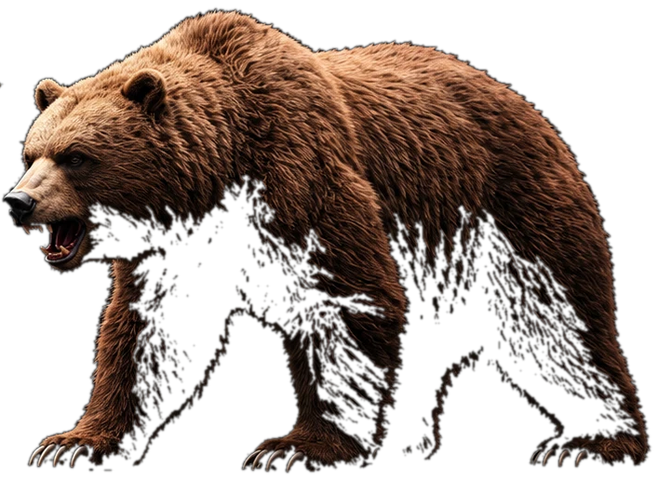
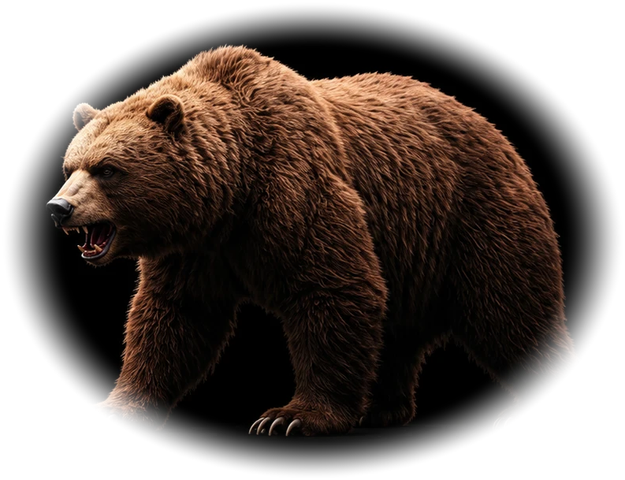
Market Snapshot: fix gray patch on bear mascot
The silhouette cutout was keying out some of the bears shadow-faded fur
along with the black background, since the art fades to near-black at
the edges with no clean color boundary between fur and backdrop. Switched
to a soft elliptical vignette plate instead of a silhouette cutout, which
keeps the whole animal opaque and only feathers the outer frame edge.

diff --git a/index.html b/index.html
@@ -108,7 +108,7 @@
 </script><section class="snapshot-banner">
     <div class="snapshot-banner-inner">
       <div class="snapshot-side-icon snapshot-side-bull" aria-hidden="true">
-        <img class="snapshot-side-img" src="assets/mascots/bull.png?v=785d998acf" alt="">
+        <img class="snapshot-side-img" src="assets/mascots/bull.png?v=d61e6e5624" alt="">
         
       </div>
       <div class="snapshot-solo">
@@ -121,7 +121,7 @@
         </div>
       </div>
       <div class="snapshot-side-icon snapshot-side-bear" aria-hidden="true">
-        <img class="snapshot-side-img" src="assets/mascots/bear.png?v=383ffa8412" alt="">
+        <img class="snapshot-side-img" src="assets/mascots/bear.png?v=09c297704d" alt="">
         <span class="snapshot-side-x">&#10060;</span>
       </div>
     </div>
